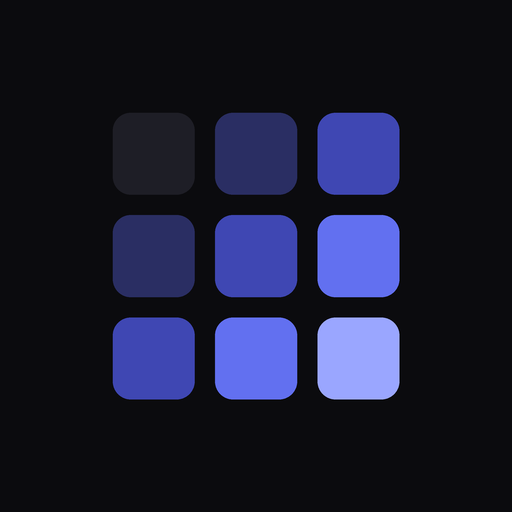
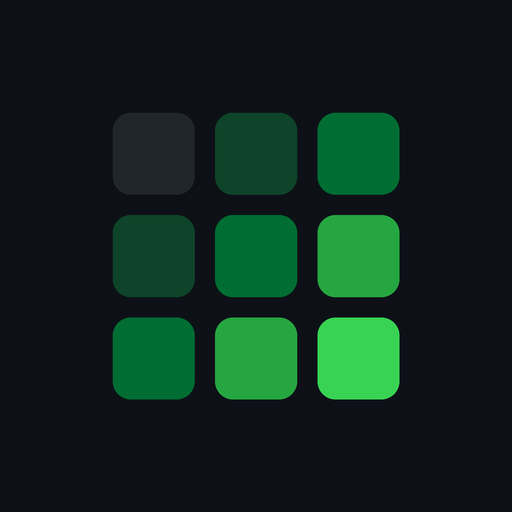
Add files via upload

Changed region(s): [[0.2188, 0.2188, 0.7812, 0.7812]]

diff --git a/style.css b/style.css
@@ -1,11 +1,11 @@
-:root{--bg:#0b0b0e;--s1:#15151b;--s2:#1e1e26;--line:#272730;--ink:#f3f3f6;--mute:#8e8e9b;--ac:#8896ff;--ac2:#5f6cf0;--g:#8896ff;--bad:#ff6b6b;
---l0:#1e1e26;--l1:#2a2e63;--l2:#3f47b3;--l3:#6270f0;--l4:#9aa6ff;color-scheme:dark}
+:root{--bg:#0d1117;--s1:#161b22;--s2:#21262d;--line:#30363d;--ink:#e6edf3;--mute:#8b949e;--ac:#3fb950;--ac2:#238636;--g:#3fb950;--bad:#f85149;
+--l0:#21262d;--l1:#0e4429;--l2:#006d32;--l3:#26a641;--l4:#39d353;color-scheme:dark}
 *{box-sizing:border-box;-webkit-tap-highlight-color:transparent}
 html{height:100%;background:var(--bg);overscroll-behavior:none}
 body{margin:0;position:fixed;top:0;left:0;right:0;bottom:0;width:100%;background:var(--bg);color:var(--ink);font-family:'Instrument Sans',-apple-system,BlinkMacSystemFont,'Segoe UI',Roboto,sans-serif;overflow:hidden;overscroll-behavior:none;-webkit-font-smoothing:antialiased;-webkit-user-select:none;user-select:none;-webkit-touch-callout:none;touch-action:manipulation}
 input{-webkit-user-select:text;user-select:text}
 .app{position:absolute;top:0;left:0;right:0;bottom:0;max-width:480px;margin:0 auto}
-.screen{position:absolute;top:0;left:0;right:0;bottom:0;overflow-y:auto;overscroll-behavior:contain;-webkit-overflow-scrolling:touch;padding:calc(18px + env(safe-area-inset-top,0px)) 20px calc(100px + env(safe-area-inset-bottom,0px))}
+.screen{position:absolute;top:0;left:0;right:0;bottom:0;overflow-y:auto;overscroll-behavior:contain;-webkit-overflow-scrolling:touch;padding:calc(18px + env(safe-area-inset-top,0px)) 20px calc(92px + env(safe-area-inset-bottom,0px))}
 .hide{display:none!important}
 button{font:inherit;color:inherit;cursor:pointer;background:none;border:0;padding:0}
 /* header */
@@ -35,11 +35,11 @@ button{font:inherit;color:inherit;cursor:pointer;background:none;border:0;paddin
 .row .n{font-size:17px;font-weight:600;white-space:nowrap;overflow:hidden;text-overflow:ellipsis}
 .row .s{font-size:13px;color:var(--mute);margin-top:3px}
 .dn{color:var(--mute);text-decoration:line-through}
-.ck{width:36px;height:36px;border-radius:50%;border:2px solid #3a3a46;display:flex;align-items:center;justify-content:center;flex:none;transition:background-color .2s,border-color .2s}
+.ck{width:36px;height:36px;border-radius:50%;border:2px solid #3d444d;display:flex;align-items:center;justify-content:center;flex:none;transition:background-color .2s,border-color .2s}
 .ck svg{width:18px;height:18px;stroke:#fff;fill:none;stroke-width:3;stroke-linecap:round;stroke-linejoin:round;opacity:0}
 .ck.part{border-color:var(--ac2)}.ck.on{background:var(--ac2);border-color:var(--ac2)}.ck.on svg{opacity:1}
 .ck.sq{border-radius:11px}.ck:disabled{opacity:.45;cursor:default}
-.addrow{width:100%;border:1.5px dashed #34343f;border-radius:20px;padding:15px;color:var(--mute);font-size:16px;font-weight:500;margin-top:2px}
+.addrow{width:100%;border:1.5px dashed #3d444d;border-radius:20px;padding:15px;color:var(--mute);font-size:16px;font-weight:500;margin-top:2px}
 .empty{color:var(--mute);text-align:center;padding:56px 0;font-size:16px;line-height:1.5}.empty .btn{margin-top:18px;width:auto;padding:13px 26px}
 /* stats */
 .big{font-size:64px;font-weight:700;letter-spacing:-.03em;line-height:1}.big small{font-size:28px;color:var(--mute);font-weight:500}
@@ -58,7 +58,7 @@ button{font:inherit;color:inherit;cursor:pointer;background:none;border:0;paddin
 .hm2{display:grid;grid-auto-flow:column;grid-template-rows:repeat(7,15px);grid-auto-columns:15px;gap:3px;width:max-content}
 .c{width:15px;height:15px;border-radius:4px;background:var(--l0)}
 .c.l1{background:var(--l1)}.c.l2{background:var(--l2)}.c.l3{background:var(--l3)}.c.l4{background:var(--l4)}
-.c.fu{background:transparent;box-shadow:inset 0 0 0 1px #20202a}.c.t{outline:1.5px solid var(--ink);outline-offset:-1px}
+.c.fu{background:transparent;box-shadow:inset 0 0 0 1px #21262d}.c.t{outline:1.5px solid var(--ink);outline-offset:-1px}
 .cap{font-size:14px;color:var(--mute);min-height:20px;margin-top:10px}
 /* tasks */
 .addr{display:flex;gap:10px;align-items:center;margin-bottom:14px}.addr input{flex:1}
@@ -73,10 +73,10 @@ input:focus,select:focus{border-color:var(--ac2)}select{color-scheme:dark}
 /* sheet */
 .ov{position:fixed;inset:0;background:rgba(0,0,0,.6);z-index:10;display:flex;align-items:flex-end;justify-content:center}
 .sheet{width:100%;max-width:480px;background:var(--s1);border-top:1px solid var(--line);border-radius:28px 28px 0 0;padding:12px 22px calc(26px + env(safe-area-inset-bottom,0px));max-height:92%;overflow-y:auto}
-.sheet:before{content:'';display:block;width:38px;height:5px;border-radius:3px;background:#3a3a46;margin:0 auto 18px}
+.sheet:before{content:'';display:block;width:38px;height:5px;border-radius:3px;background:#3d444d;margin:0 auto 18px}
 .sheet h3{margin:0 0 16px;font-size:24px;font-weight:700;letter-spacing:-.01em}
 .sw{display:flex;align-items:center;justify-content:space-between;margin:16px 0 12px;font-size:17px}
-.tg{width:50px;height:30px;border-radius:15px;background:#34343f;position:relative;transition:background .2s}
+.tg{width:50px;height:30px;border-radius:15px;background:#3d444d;position:relative;transition:background .2s}
 .tg:after{content:'';position:absolute;top:3px;left:3px;width:24px;height:24px;border-radius:50%;background:#fff;transition:transform .2s}
 .tg.on{background:var(--ac2)}.tg.on:after{transform:translateX(20px)}
 .note{color:var(--mute);font-size:13px;margin:12px 0 0;line-height:1.4}
@@ -90,9 +90,9 @@ input:focus,select:focus{border-color:var(--ac2)}select{color-scheme:dark}
 .chips{display:flex;justify-content:center;gap:10px;margin-bottom:20px}
 .chip{background:var(--s2);color:var(--ink);font-size:17px;font-weight:600;padding:10px 20px;border-radius:14px}.chip.on{background:var(--ac2);color:#fff}
 /* tab bar: solid, edge to edge, reaches the very bottom */
-.nav{position:fixed;left:0;right:0;bottom:0;background:var(--bg);border-top:1px solid var(--line);padding-bottom:env(safe-area-inset-bottom,0px);z-index:5}
+.nav{position:fixed;left:0;right:0;bottom:0;background:var(--bg);border-top:1px solid var(--line);padding-bottom:calc(env(safe-area-inset-bottom,0px)*.4);z-index:5}
 .nav div{max-width:480px;margin:0 auto;display:flex}
-.nav button{flex:1;display:flex;flex-direction:column;align-items:center;gap:4px;padding:10px 0 9px;font-size:11px;font-weight:500;color:var(--mute);transition:color .2s}
+.nav button{flex:1;display:flex;flex-direction:column;align-items:center;gap:4px;padding:10px 0 8px;font-size:11px;font-weight:500;color:var(--mute);transition:color .2s}
 .nav button.on{color:var(--ac)}
 .nav svg{width:25px;height:25px;stroke:currentColor;fill:none;stroke-width:1.8;stroke-linecap:round;stroke-linejoin:round}
 /* motion */

diff --git a/index.html b/index.html
@@ -4,7 +4,7 @@
 <meta charset="utf-8">
 <meta name="viewport" content="width=device-width, initial-scale=1, viewport-fit=cover">
 <title>Habits</title>
-<meta name="theme-color" content="#0b0b0e">
+<meta name="theme-color" content="#0d1117">
 <meta name="mobile-web-app-capable" content="yes">
 <meta name="apple-mobile-web-app-capable" content="yes">
 <meta name="apple-mobile-web-app-title" content="Habits">
@@ -13,7 +13,7 @@
 <link rel="icon" href="icon.svg" type="image/svg+xml">
 <link rel="apple-touch-icon" href="apple-touch-icon.png">
 <link href="https://fonts.googleapis.com/css2?family=Instrument+Sans:wght@400;500;600&display=swap" rel="stylesheet">
-<link rel="stylesheet" href="style.css?v=4">
+<link rel="stylesheet" href="style.css?v=5">
 </head>
 <body>
 <div class="app">
@@ -56,6 +56,6 @@
   <button class="btn" id="go">Start</button>
 </div>
 
-<script src="app.js?v=4"></script>
+<script src="app.js?v=5"></script>
 </body>
 </html>

diff --git a/sw.js b/sw.js
@@ -1,4 +1,4 @@
-var CACHE='habits-v4';
+var CACHE='habits-v5';
 var FILES=['./','index.html','style.css','app.js','manifest.webmanifest','icon.svg','icon-192.png','icon-512.png','apple-touch-icon.png'];
 self.addEventListener('install',function(e){e.waitUntil(caches.open(CACHE).then(function(c){return c.addAll(FILES)}).then(function(){return self.skipWaiting()}))});
 self.addEventListener('activate',function(e){e.waitUntil(caches.keys().then(function(ks){return Promise.all(ks.filter(function(k){return k!==CACHE}).map(function(k){return caches.delete(k)}))}).then(function(){return self.clients.claim()}))});
